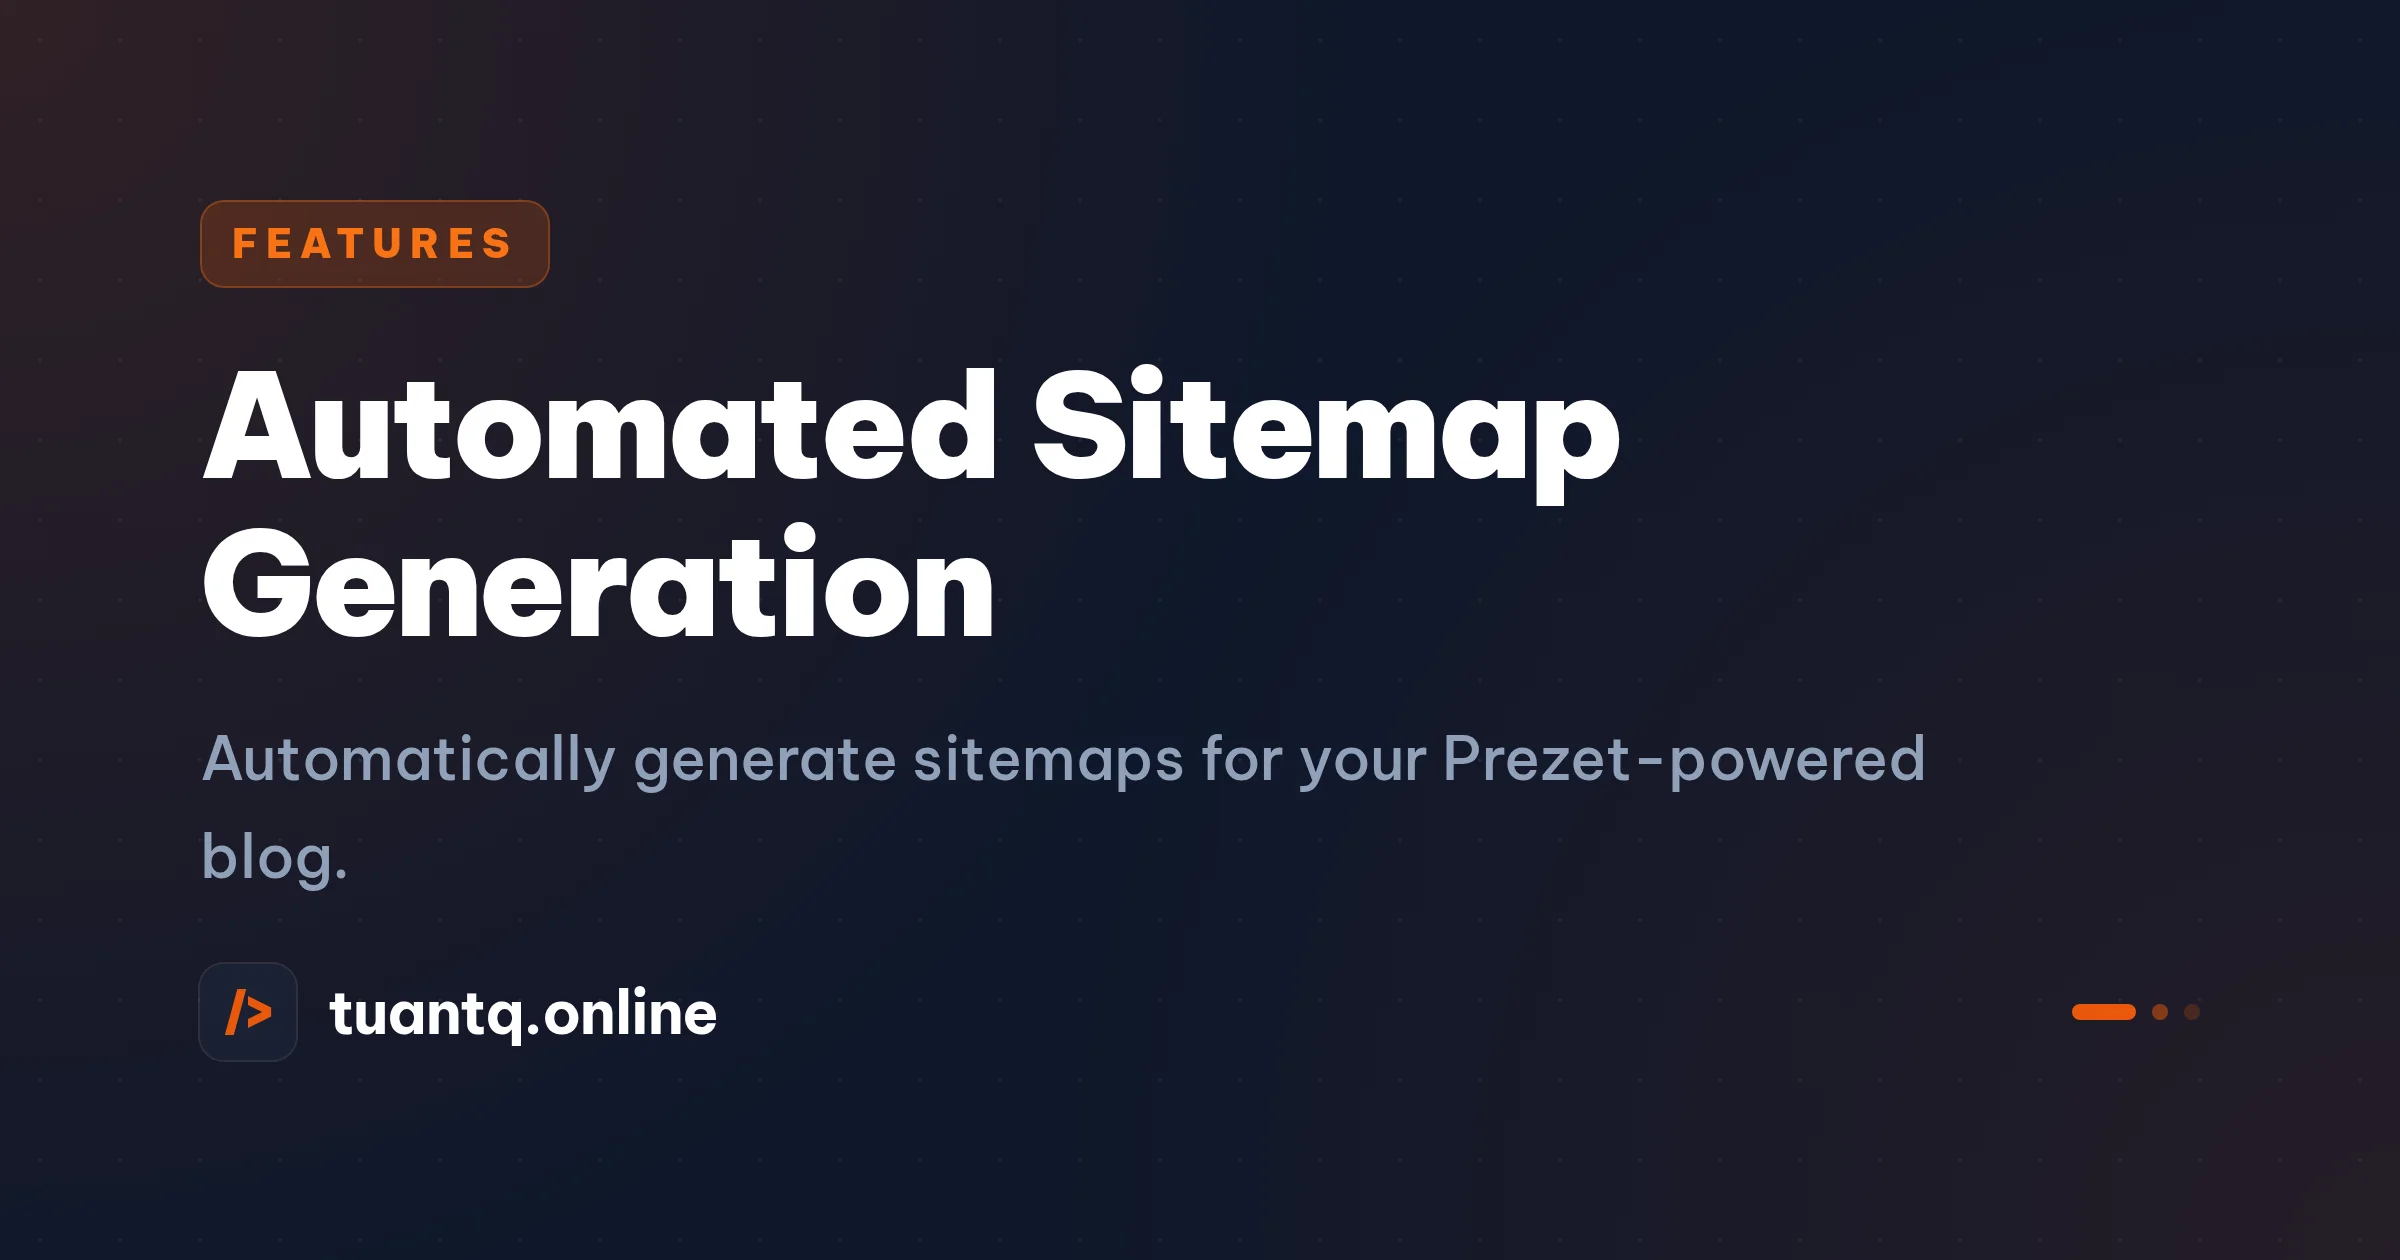
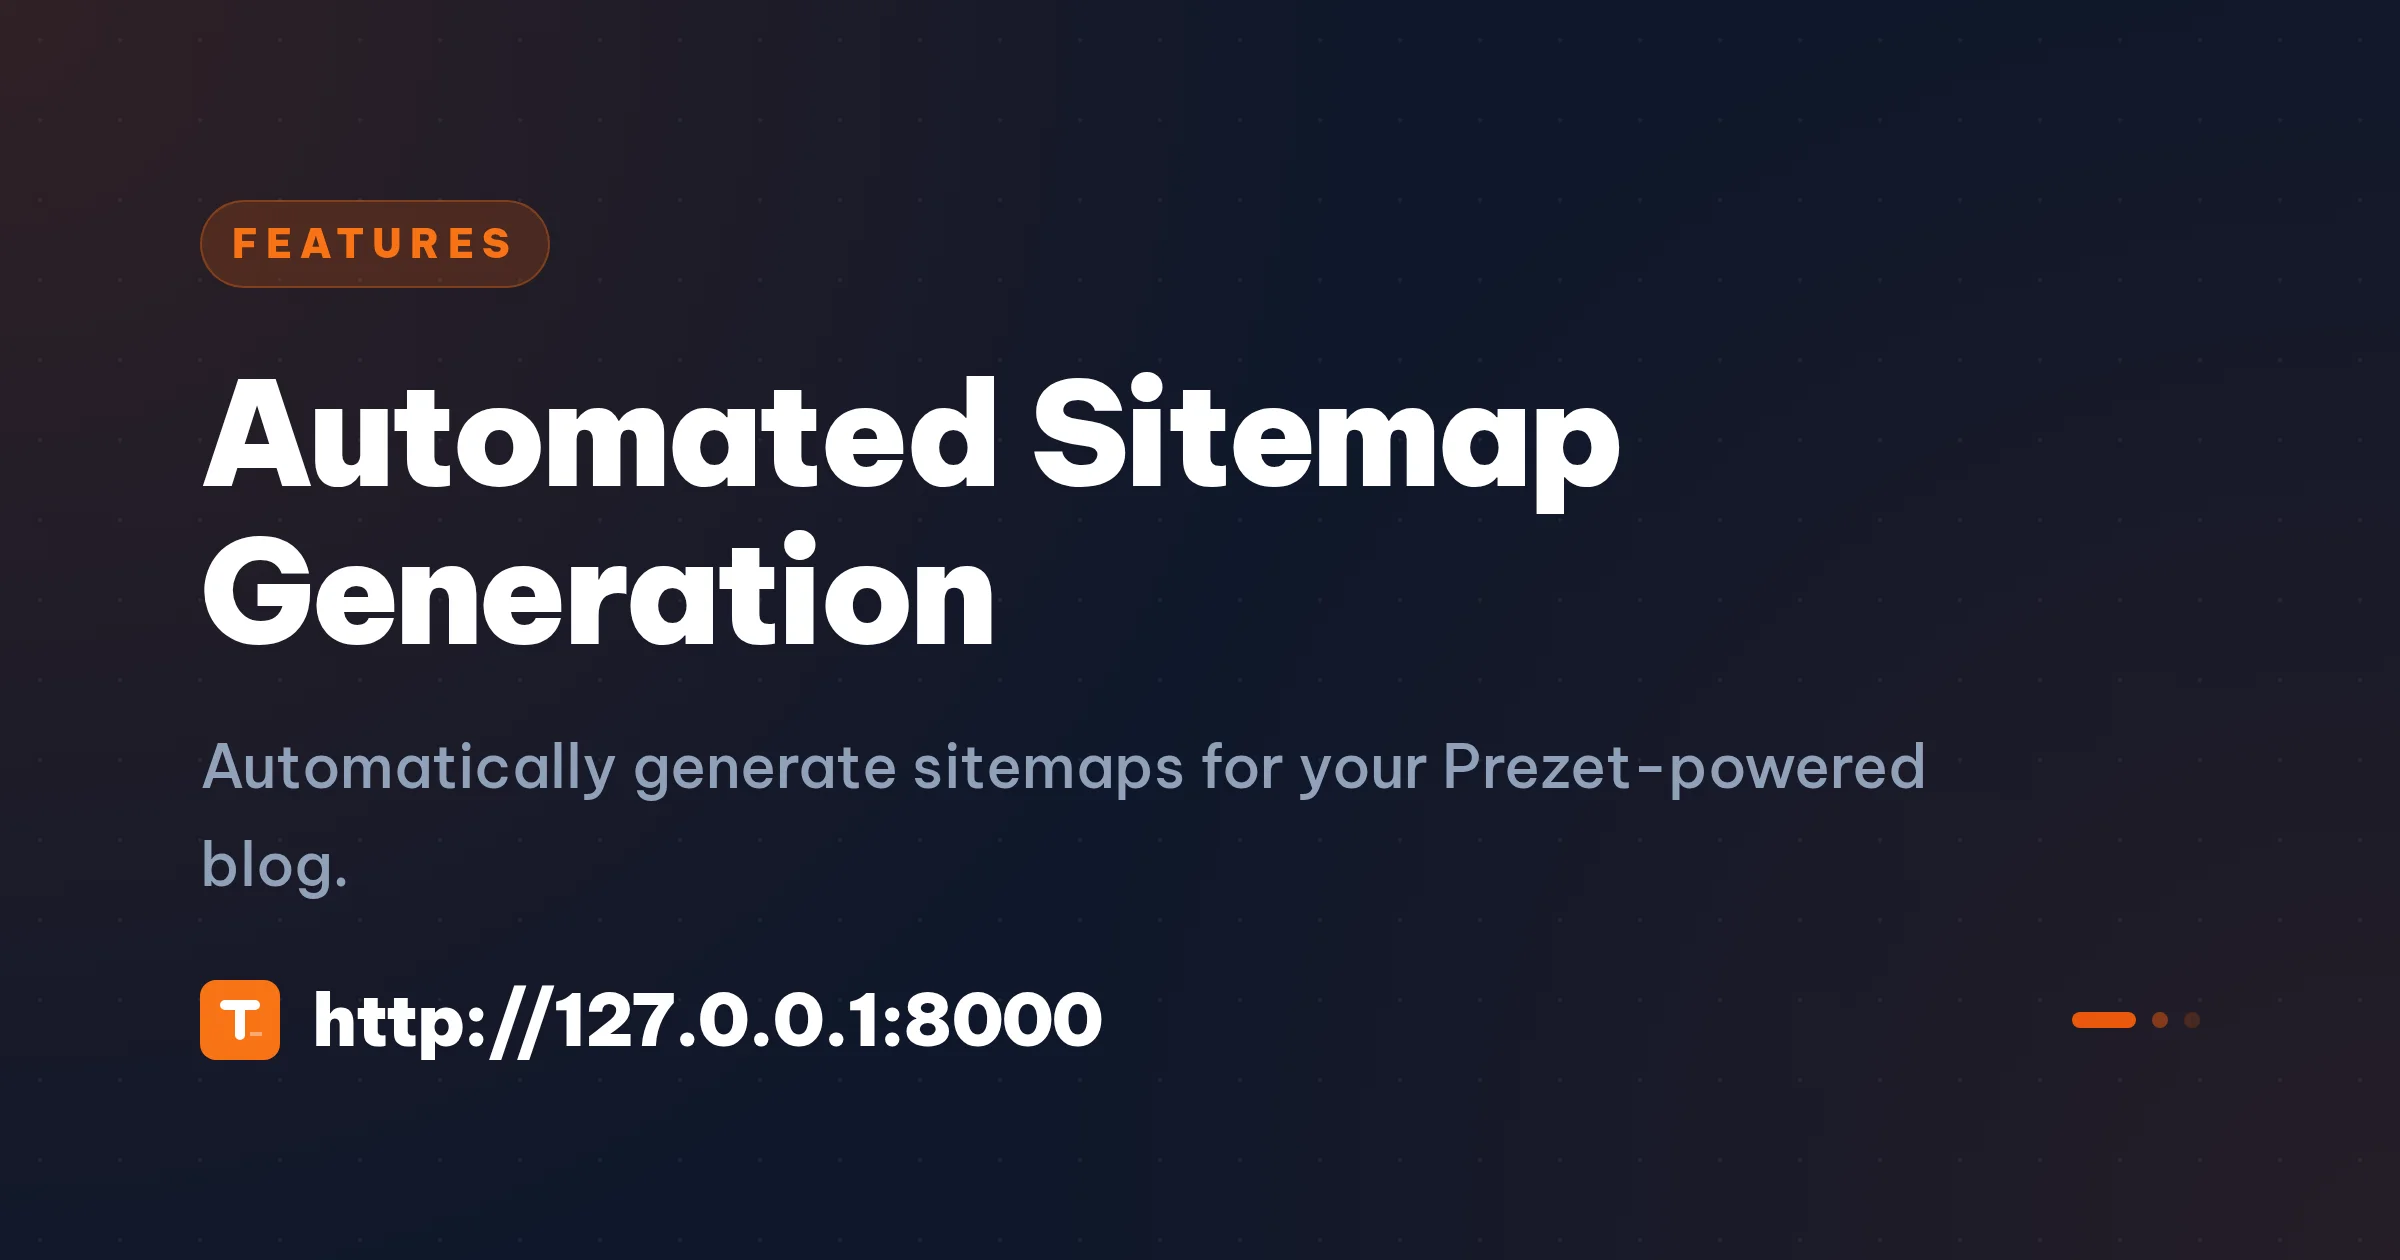
Update ogimage template

diff --git a/resources/views/prezet/ogimage.blade.php b/resources/views/prezet/ogimage.blade.php
@@ -72,13 +72,24 @@
         <div class="og-grid"></div>
 
         <div class="og-content">
-            {{-- Top Section: Category --}}
-            <div>
+            {{-- Top Section: Category & Tags --}}
+            <div class="flex flex-wrap items-center gap-4">
                 @if ($fm->category)
                     <span
                         class="inline-flex items-center rounded-3xl bg-primary-600/20 px-4 py-2 text-xl font-black uppercase tracking-[0.2em] text-primary-500 ring-1 ring-inset ring-primary-500/30">
                         {{ $fm->category }}
                     </span>
+                @endif
+
+                @if ($fm->tags)
+                    <div class="flex gap-3">
+                        @foreach ($fm->tags as $tag)
+                            <span
+                                class="inline-flex items-center rounded-3xl bg-slate-800/50 px-4 py-2 text-lg font-bold text-slate-300 ring-1 ring-inset ring-white/10">
+                                #{{ $tag }}
+                            </span>
+                        @endforeach
+                    </div>
                 @endif
             </div>
 
@@ -98,12 +109,9 @@
             {{-- Bottom Section: Branding --}}
             <div class="flex items-center justify-between">
                 <div class="flex items-center gap-4">
-                    <div
-                        class="flex h-12 w-12 items-center justify-center rounded-3xl bg-slate-800/50 p-2 ring-1 ring-white/10">
-                        <x-prezet.logo />
-                    </div>
-                    <span class="text-3xl font-bold tracking-tight text-white">
-                        tuantq.online
+                    <x-prezet.logo class="size-16" />
+                    <span class="text-4xl font-black tracking-tight text-white">
+                        {{ config('app.url', 'tuantq.online') }}
                     </span>
                 </div>
 

diff --git a/prezet/content/series/javascript-basics/index.md b/prezet/content/series/javascript-basics/index.md
@@ -4,7 +4,7 @@ excerpt: Learn the basics of Javascript framework.
 category: Javascript
 date: 2026-03-08
 order: 1
-image: /prezet/img/ogimages/series-Javascript-basics-index.webp
+image: /prezet/img/ogimages/series-javascript-basics-index.webp
 ---
 
 # Introduction to Javascript

diff --git a/prezet/content/snippets/hello-world.md b/prezet/content/snippets/hello-world.md
@@ -4,7 +4,7 @@ excerpt: A simple demonstration of how to use the map function in Javascript.
 date: 2026-03-07
 category: snippets
 language: php
-image: /prezet/img/ogimages/snippets-example-test.webp
+image: /prezet/img/ogimages/snippets-hello-world.webp
 ---
 
 ```php

diff --git a/prezet/content/series/laravel-basics/run.md b/prezet/content/series/laravel-basics/run.md
@@ -4,7 +4,7 @@ excerpt: Start Laravel.
 category: Laravel
 date: 2026-03-08
 order: 3
-image: /prezet/img/ogimages/series-laravel-basics-installing.webp
+image: /prezet/img/ogimages/series-laravel-basics-run.webp
 ---
 
 # Installing Laravel 3

diff --git a/prezet/content/series/javascript-basics/run.md b/prezet/content/series/javascript-basics/run.md
@@ -4,7 +4,7 @@ excerpt: Start js.
 category: js
 date: 2026-03-08
 order: 3
-image: /prezet/img/ogimages/series-laravel-basics-installing.webp
+image: /prezet/img/ogimages/series-javascript-basics-run.webp
 ---
 
 # Installing Laravel 3

diff --git a/prezet/content/series/javascript-basics/queue.md b/prezet/content/series/javascript-basics/queue.md
@@ -4,7 +4,7 @@ excerpt: Start js.
 category: Laravel
 date: 2026-03-08
 order: 4
-image: /prezet/img/ogimages/series-laravel-basics-installing.webp
+image: /prezet/img/ogimages/series-javascript-basics-queue.webp
 ---
 
 # Run queue 4

diff --git a/prezet/content/series/laravel-basics/queue.md b/prezet/content/series/laravel-basics/queue.md
@@ -4,7 +4,7 @@ excerpt: Start queue.
 category: Laravel
 date: 2026-03-08
 order: 4
-image: /prezet/img/ogimages/series-laravel-basics-installing.webp
+image: /prezet/img/ogimages/series-laravel-basics-queue.webp
 ---
 
 # Run queue 4
